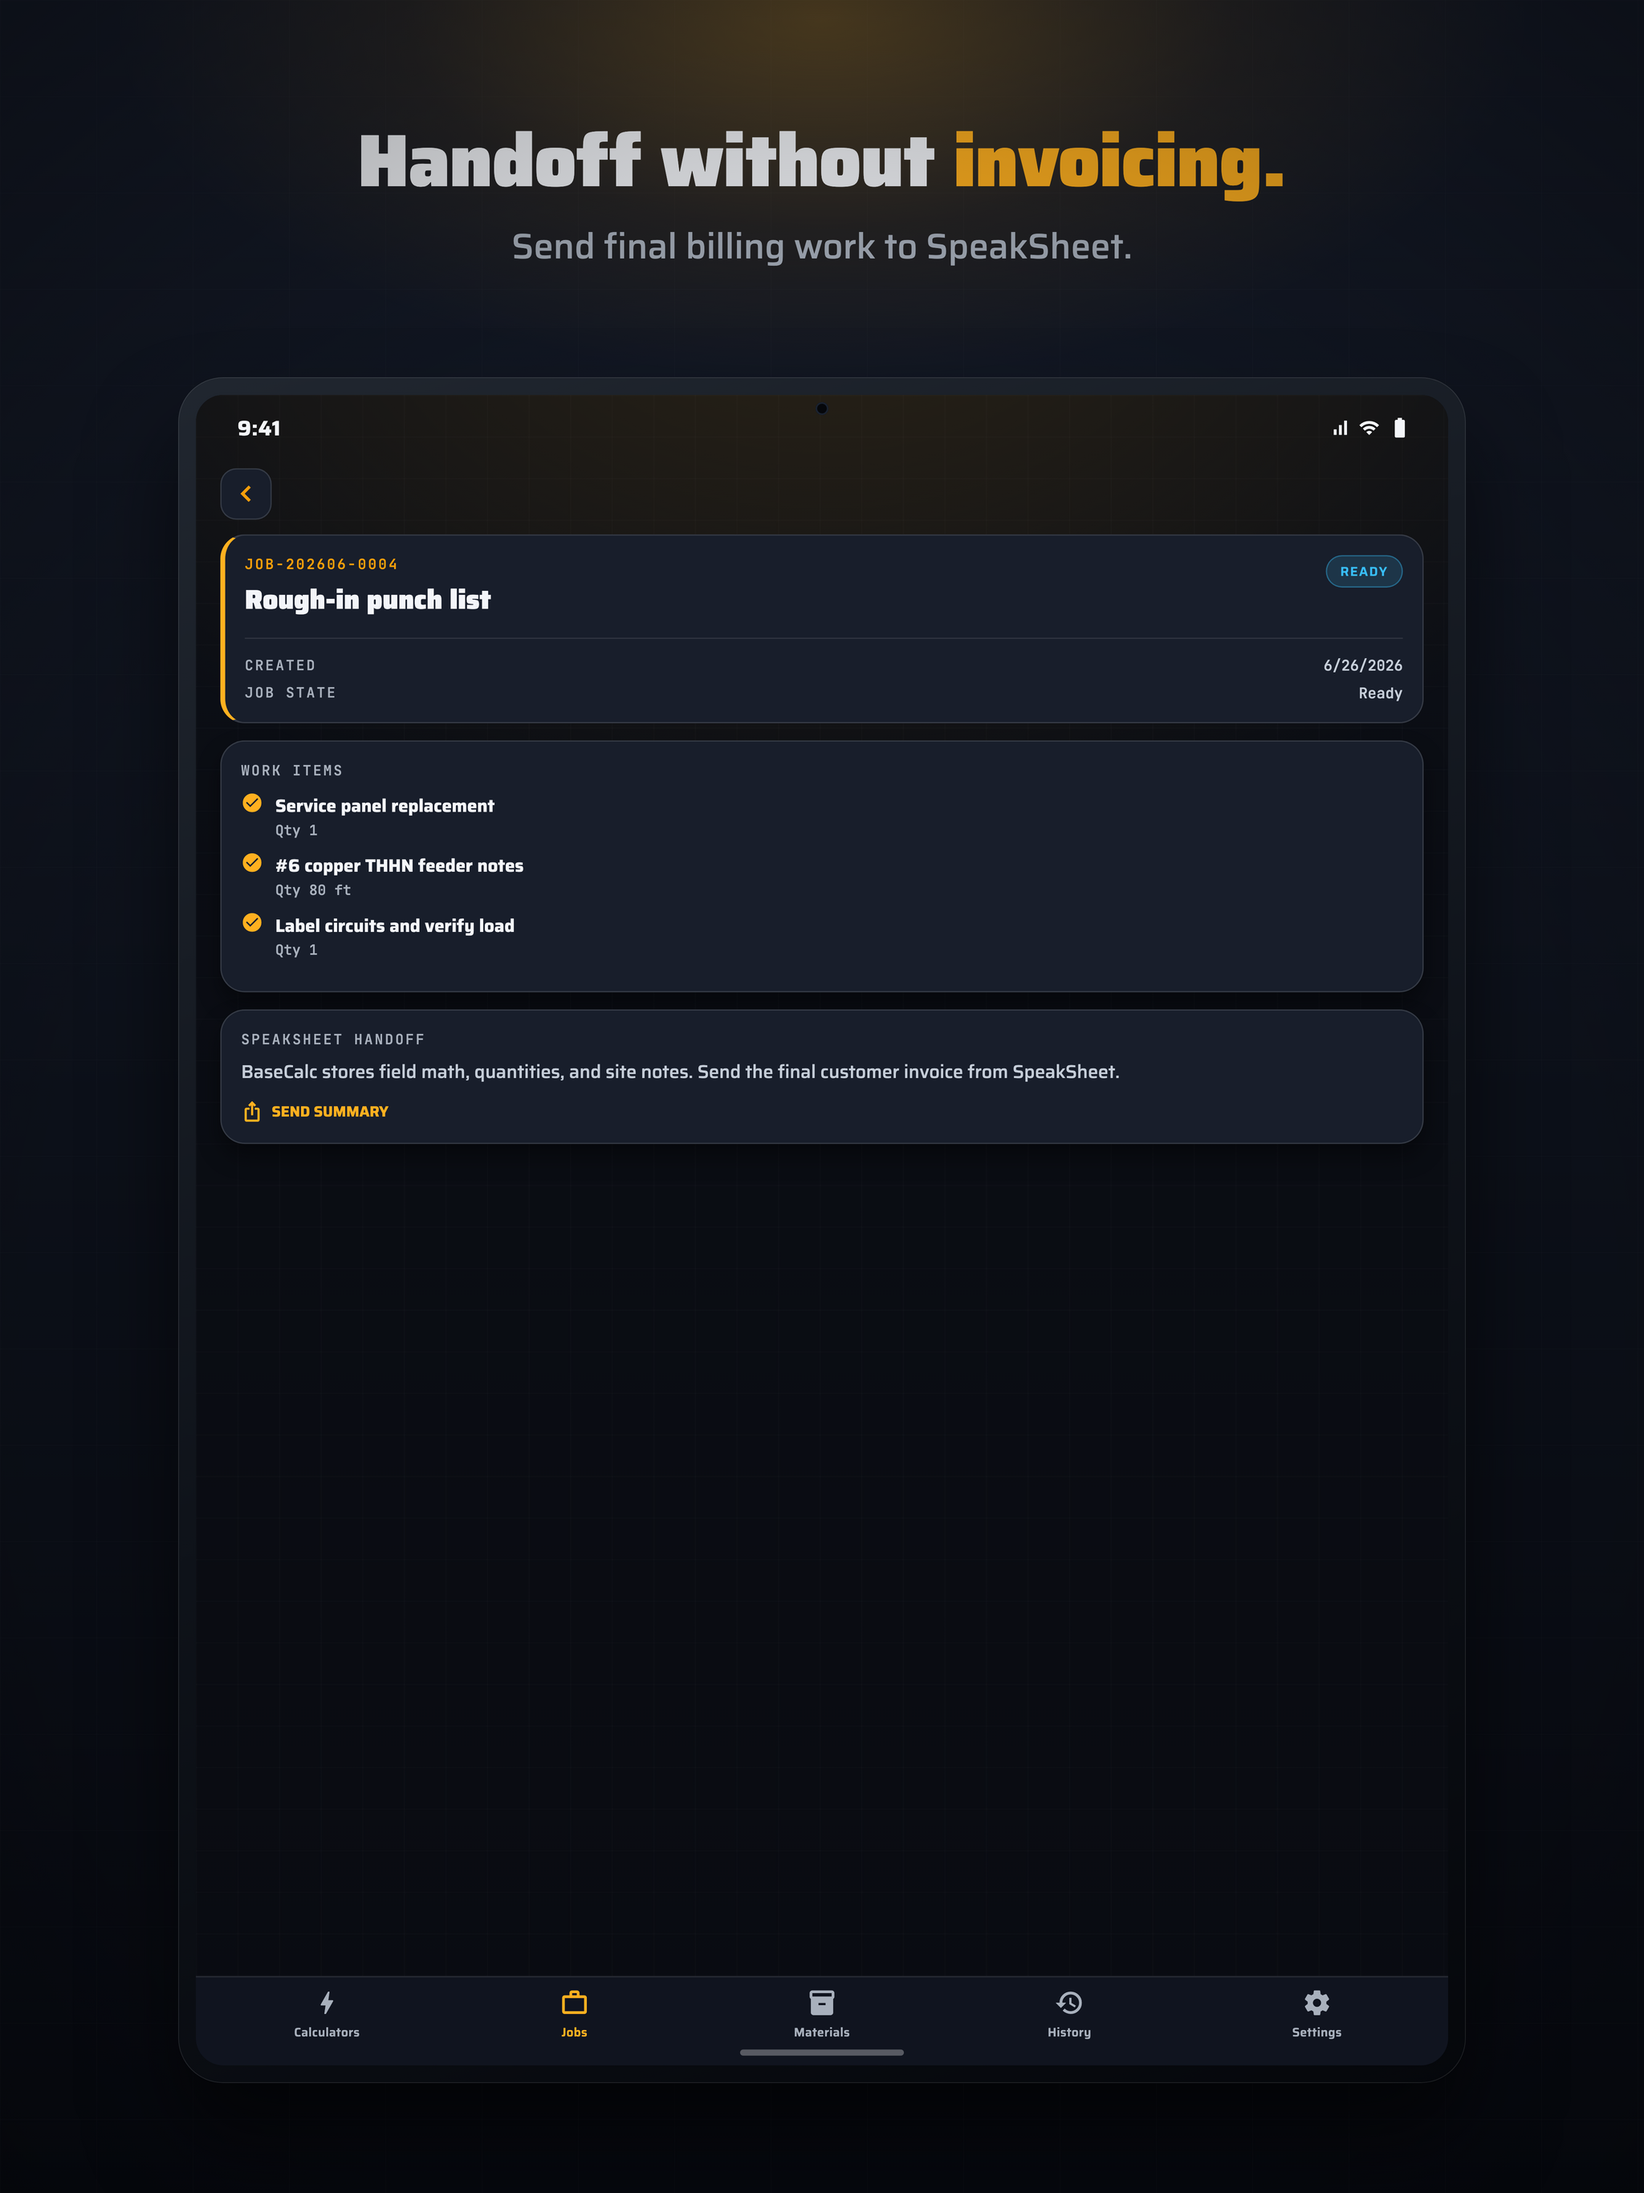
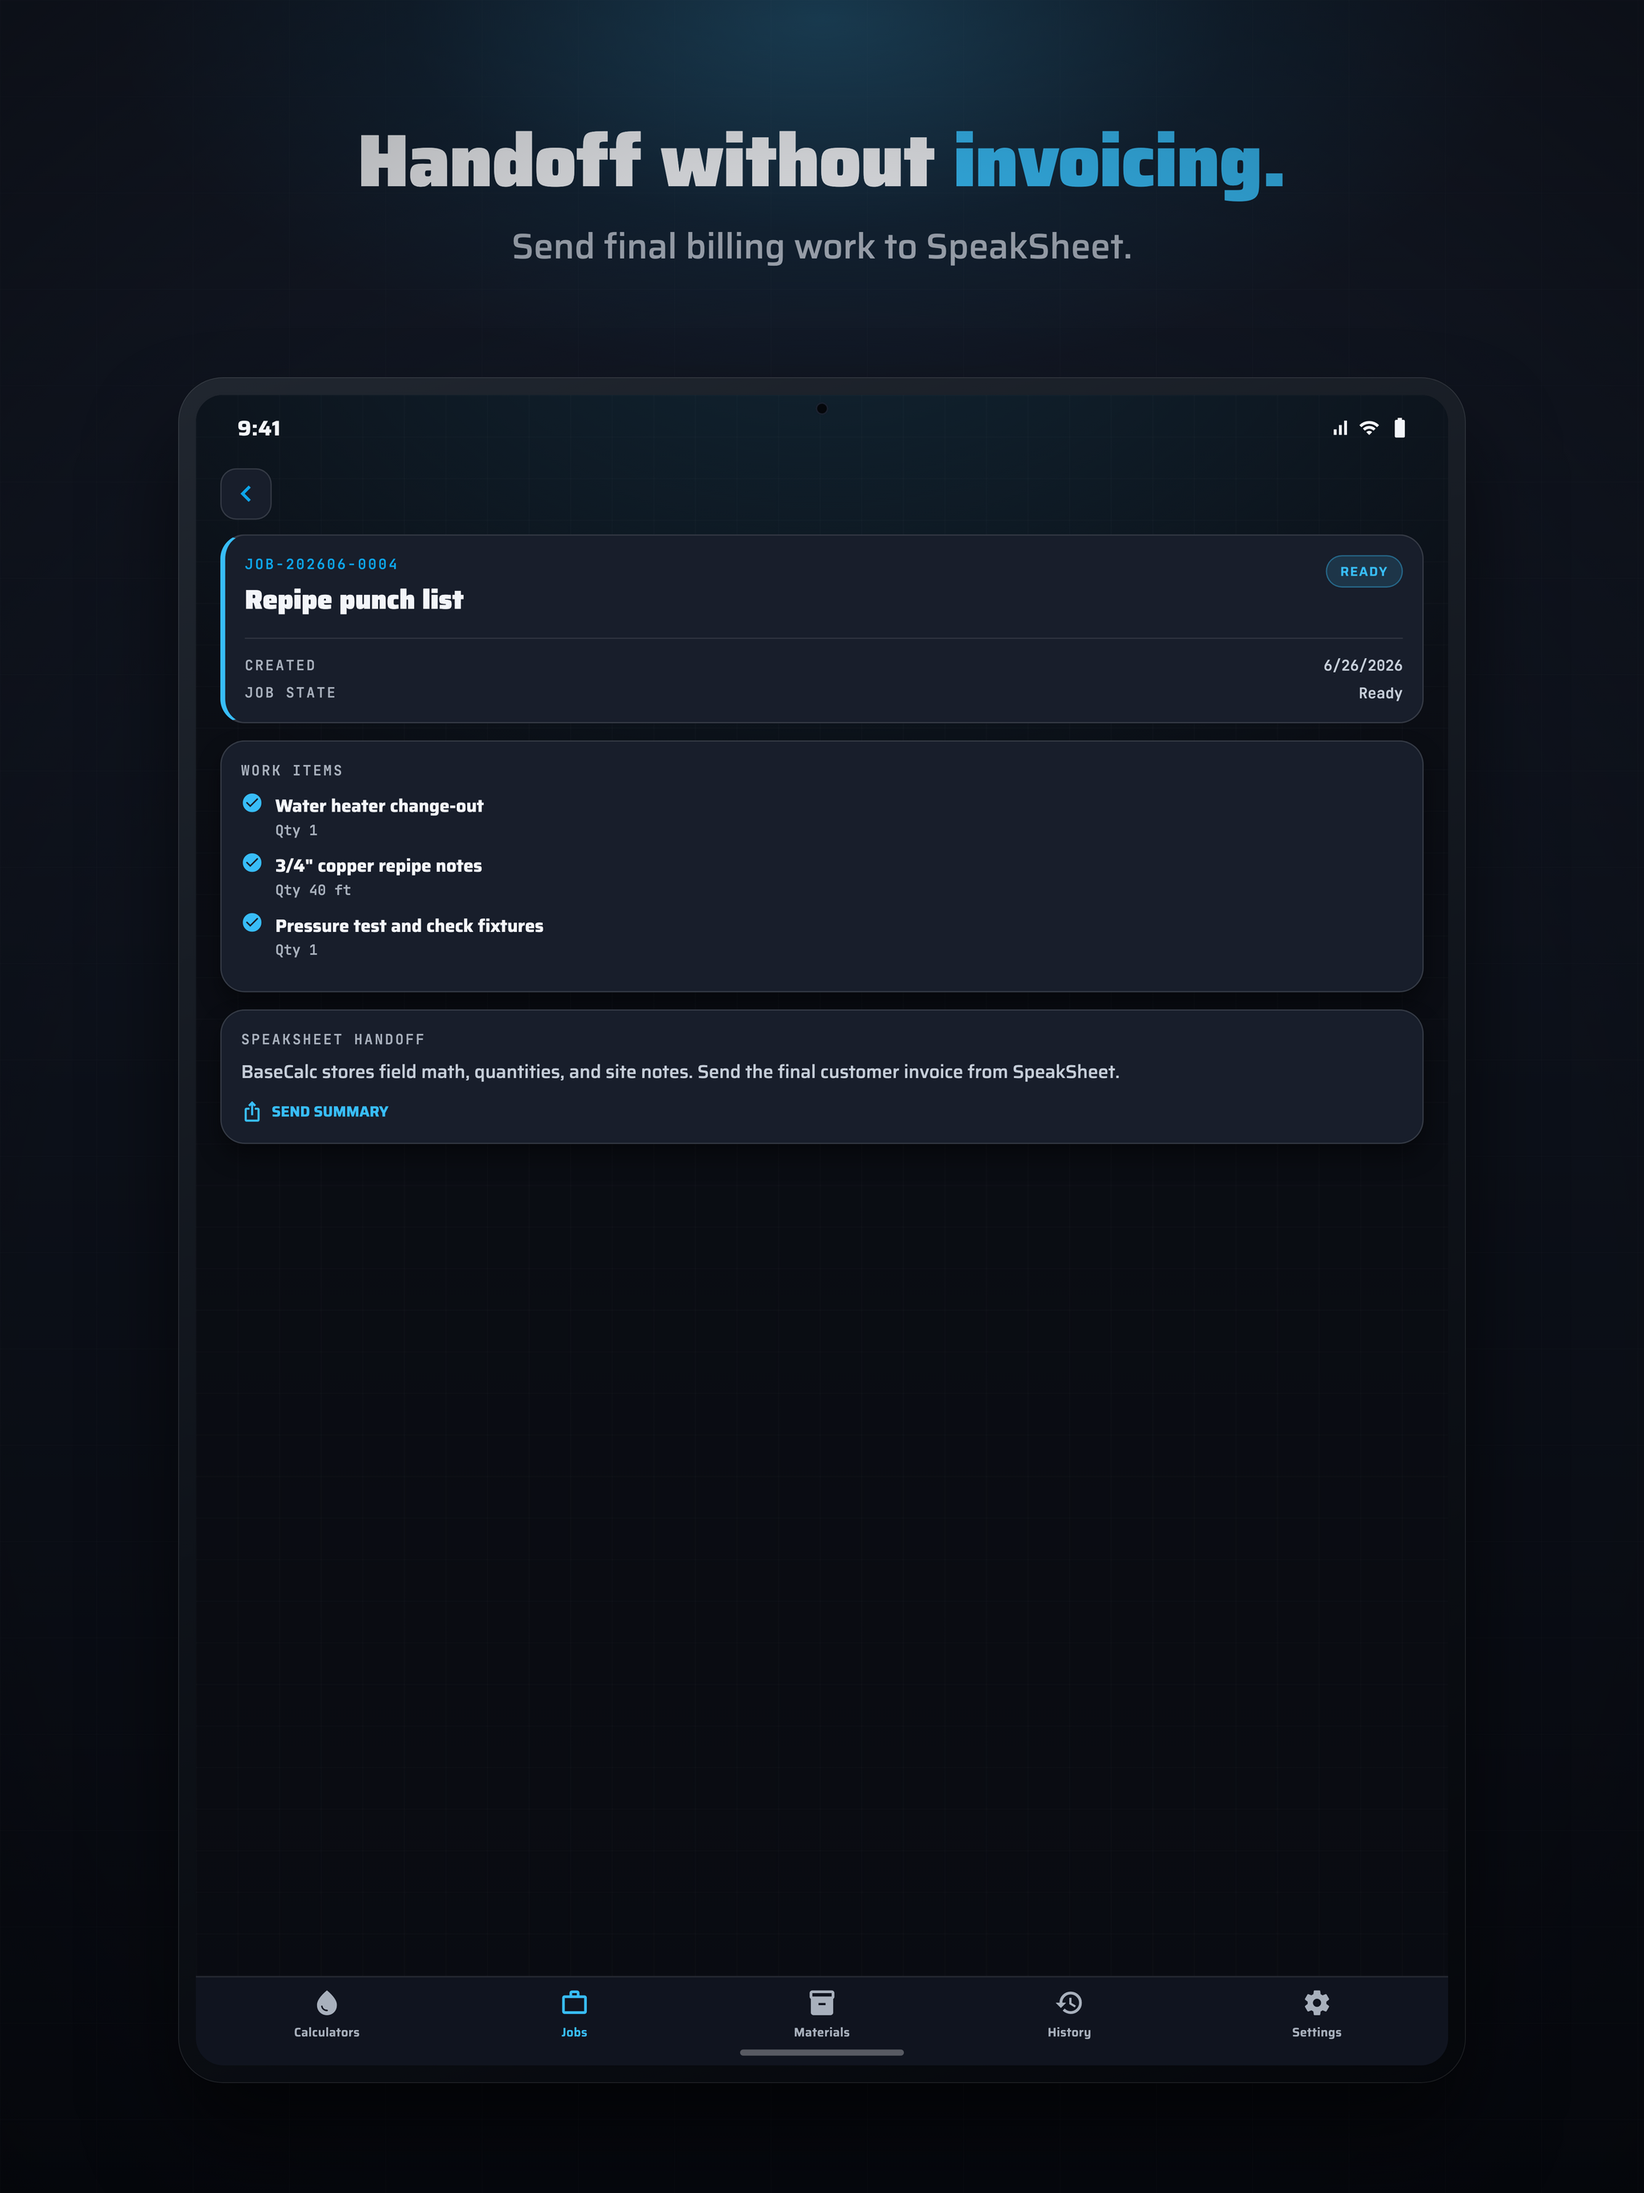
Retrade brand kit to Plumbing water-blue identity
Give BaseCalc Plumbing its own identity in the shared "Measured Current"
instrument system: a glassy water-drop mark in water-blue replacing the
amber AC waveform, across the full brand kit and store assets.

- generate-brand-assets.mjs: water-blue accent + refined glassy water-drop
  mark (specular highlight + ripple); regenerates icon, splash, adaptive
  fg/bg/mono, favicon, glow, grid, logo lockups
- appTheme.ts: dark-mode brand tokens amber -> water-blue (#38BDF8 / #0EA5E9);
  token keys kept as amber* for cross-app parity
- generate-store-screenshots.mjs: real plumbing calculators (pipe sizing,
  pressure drop, drainage sizing, water heater, gas pipe sizing) in blue
- generate-store-marketing.mjs: blue hero + continuous water-wave panorama
- Regenerated 10 iPhone + 10 iPad screenshots, hero, and 5-frame panorama;
  removed stale Electric-named shots; README reconciled to new filenames

diff --git a/src/theme/appTheme.ts b/src/theme/appTheme.ts
@@ -28,7 +28,7 @@ export type AppColors = {
   textMuted: string;
   textFaint: string;
 
-  // Brand (live-wire amber)
+  // Brand (Plumbing water blue) — token names kept as `amber*` for cross-app parity
   amber: string;
   amberBright: string;
   amberSoft: string;
@@ -75,10 +75,10 @@ const dark: AppColors = {
   textDim: '#C5CDD8',
   textMuted: '#A8B0BC',
   textFaint: '#7A8491',
-  amber: '#F59E0B',
-  amberBright: '#FFB020',
-  amberSoft: 'rgba(245,158,11,0.14)',
-  onAmber: '#0A0C11',
+  amber: '#0EA5E9',
+  amberBright: '#38BDF8',
+  amberSoft: 'rgba(56,189,248,0.14)',
+  onAmber: '#04121C',
   pass: '#34D399',
   passBg: 'rgba(52,211,153,0.12)',
   passBorder: 'rgba(52,211,153,0.32)',

diff --git a/store-assets/README.md b/store-assets/README.md
@@ -8,14 +8,14 @@ Everything needed to fill out the App Store Connect listing for BaseCalc Plumbin
 store-assets/
 ├── screenshots/        ← 10 images, 1284 × 2778  (iPhone 6.5"/6.7")
 │   ├── 01-dashboard.png
-│   ├── 02-pipe-sizing.png   (PASS/FAIL hero)
-│   ├── 03-pressure-drop.png
-│   ├── 04-water-pressure.png
+│   ├── 02-pipe-sizing.png
+│   ├── 03-pressure-drop.png   (PASS/FAIL hero)
+│   ├── 04-drainage.png
 │   ├── 05-jobs.png
 │   ├── 06-worksheet.png
 │   ├── 07-materials.png
 │   ├── 08-water-heater.png
-│   ├── 09-drainage-sizing.png
+│   ├── 09-gas-pipe.png
 │   └── 10-history.png
 ├── screenshots-ipad/   ← same 10 screens, 2048 × 2732  (iPad 13")
 └── seed/basecalc-seed.json   ← sample data baked into the screenshots
